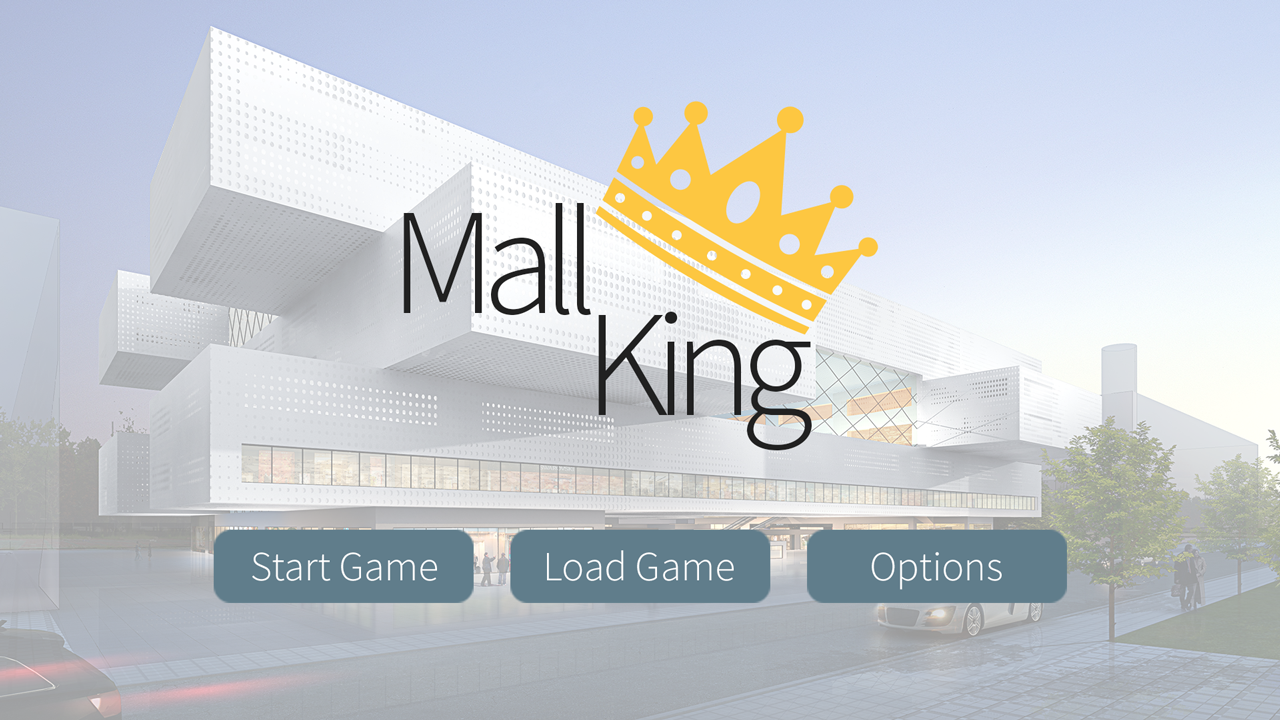
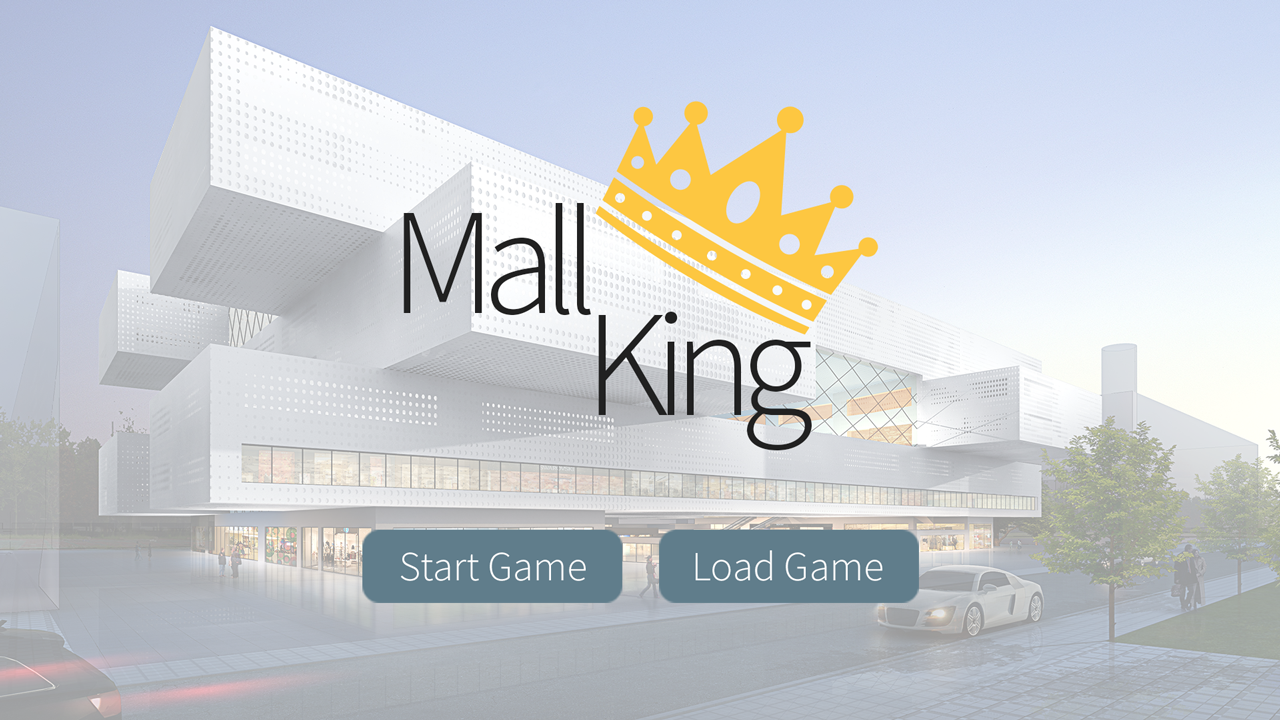
Image Changes + Settings BG!

Changed region(s): [[0.1562, 0.7333, 0.8438, 0.8556]]

diff --git a/MallKing.java b/MallKing.java
@@ -28,7 +28,7 @@ public class MallKing extends JPanel
   private static boolean playGame;
   private static boolean loadGame;
   private static boolean newGame;
-  private static boolean options;
+  private static boolean settings;
   private static int cash;
   private static int year;
   private static int month;
@@ -54,19 +54,14 @@ public class MallKing extends JPanel
         mouseY=me.getY();
         clickX=mouseX/60+1;
         clickY=mouseY/60+1;
-        if((mouseX>=215&&mouseX<=475&&mouseY>=530&&mouseY<=600)&&!playGame&&!loadGame)
+        if((mouseX>=362&&mouseX<=622&&mouseY>=530&&mouseY<=600)&&!playGame&&!loadGame)
         {
           newGame=true;
         }
-        if((mouseX>=510&&mouseX<=770&&mouseY>=530&&mouseY<=600)&&!playGame&&!loadGame)
+        if((mouseX>=659&&mouseX<=919&&mouseY>=530&&mouseY<=600)&&!playGame&&!loadGame)
         {
           loadGame=true;
-        }
-        if((mouseX>=805&&mouseX<=1070&&mouseY>=530&&mouseY<=600)&&!playGame&&!loadGame)
-        {
-          options=true;
-          System.out.println("Settings");
-        }   
+        } 
         if (mallstore[clickX][clickY]==810)
         {
           playGame=false;
@@ -107,7 +102,7 @@ public class MallKing extends JPanel
         }
         if(mallstore[clickX][clickY]==809)
         {
-          //settings();
+          settings=!settings;
         }
       }      
       
@@ -141,7 +136,7 @@ public class MallKing extends JPanel
     loadGame=false;
     playGame=true;  
     newGame=false;
-    paused=false;
+    paused=false;    
   }
   
   public void loading()
@@ -264,9 +259,55 @@ public class MallKing extends JPanel
         Font font = Font.createFont(Font.TRUETYPE_FONT, new FileInputStream("A.ttf"));
         font = font.deriveFont(48F);
         g.setFont(font);
-        Color fontcolor = new Color(96,125,139);
+        Color fontcolor = new Color(33,33,33);
         g.setColor (fontcolor);
         ma.paint(g2d);
+        
+        if (settings==true)
+        { 
+          try
+          {
+            img = ImageIO.read(new File("Settings.png"));
+          } catch (IOException e){}
+          g.drawImage(img, 0, 0, null);
+        }
+        
+        if (daymod!=15)
+        { 
+          try
+          {
+            img = ImageIO.read(new File("Up.png"));
+          } catch (IOException e){}
+          g.drawImage(img, 0, 0, null);
+        }
+        
+        if (daylength!=1887436800)
+        { 
+          try
+          {
+            img = ImageIO.read(new File("Down.png"));
+          } catch (IOException e){}
+          g.drawImage(img, 0, 0, null);
+        }
+        
+        if (paused==true)
+        { 
+          try
+          {
+            img = ImageIO.read(new File("Play.png"));
+          } catch (IOException e){}
+          g.drawImage(img, 0, 0, null);
+        }
+        
+        if (paused==false)
+        { 
+          try
+          {
+            img = ImageIO.read(new File("Pause.png"));
+          } catch (IOException e){}
+          g.drawImage(img, 0, 0, null);
+        }
+        
         g.drawString("$"+String.valueOf(cash),65,107);
         g.drawString(String.valueOf(month)+"/"+String.valueOf(day/daymod)+"/"+String.valueOf(year),65,45);
       } 

diff --git a/TitleScreen.java b/TitleScreen.java
@@ -15,10 +15,7 @@ public class TitleScreen
     try
       {
         img = ImageIO.read(new File("MallKing.png"));
-      } catch (IOException e)
-      {
-        System.out.println("NO IMG");
-      }
+      } catch (IOException e){}
   }
   public void paint(Graphics2D g2d)
   {

diff --git a/Mall.java b/Mall.java
@@ -13,7 +13,7 @@ public class Mall
   public Mall()
   {
     try {
-      img = ImageIO.read(new File("DEMO2.png"));
+      img = ImageIO.read(new File("Mall.png"));
     } catch (IOException e) 
     {
       System.out.println("NO IMG");
